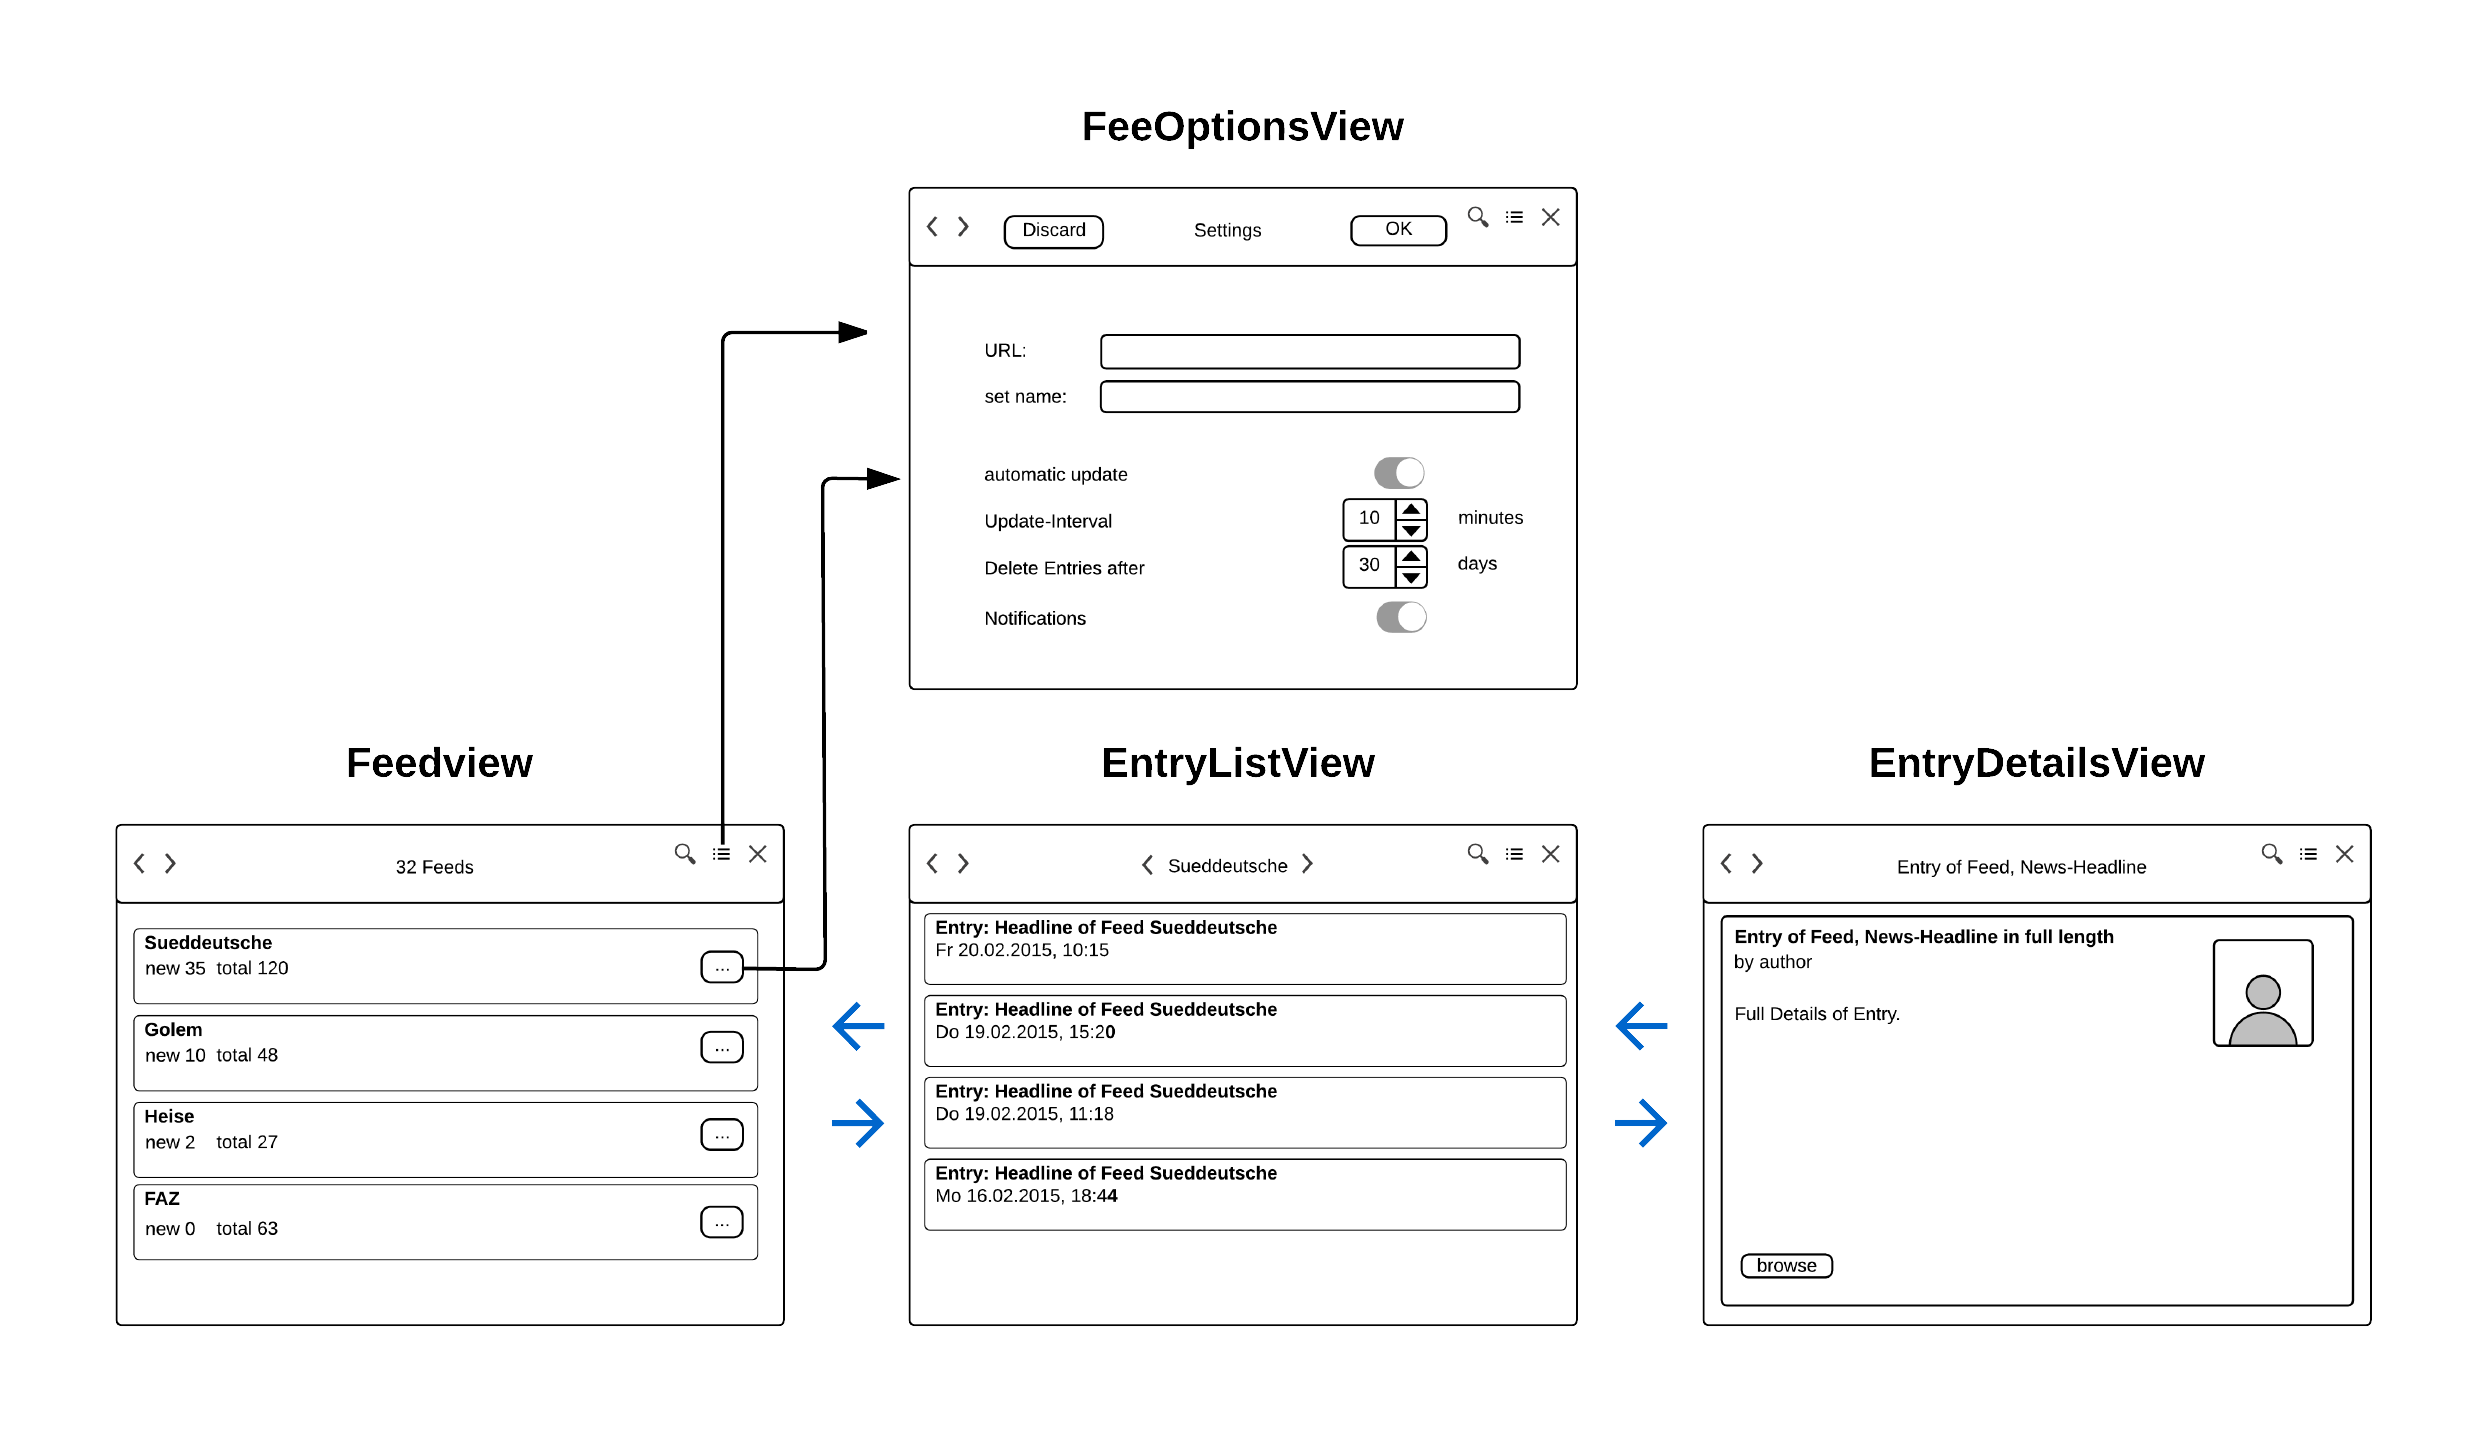
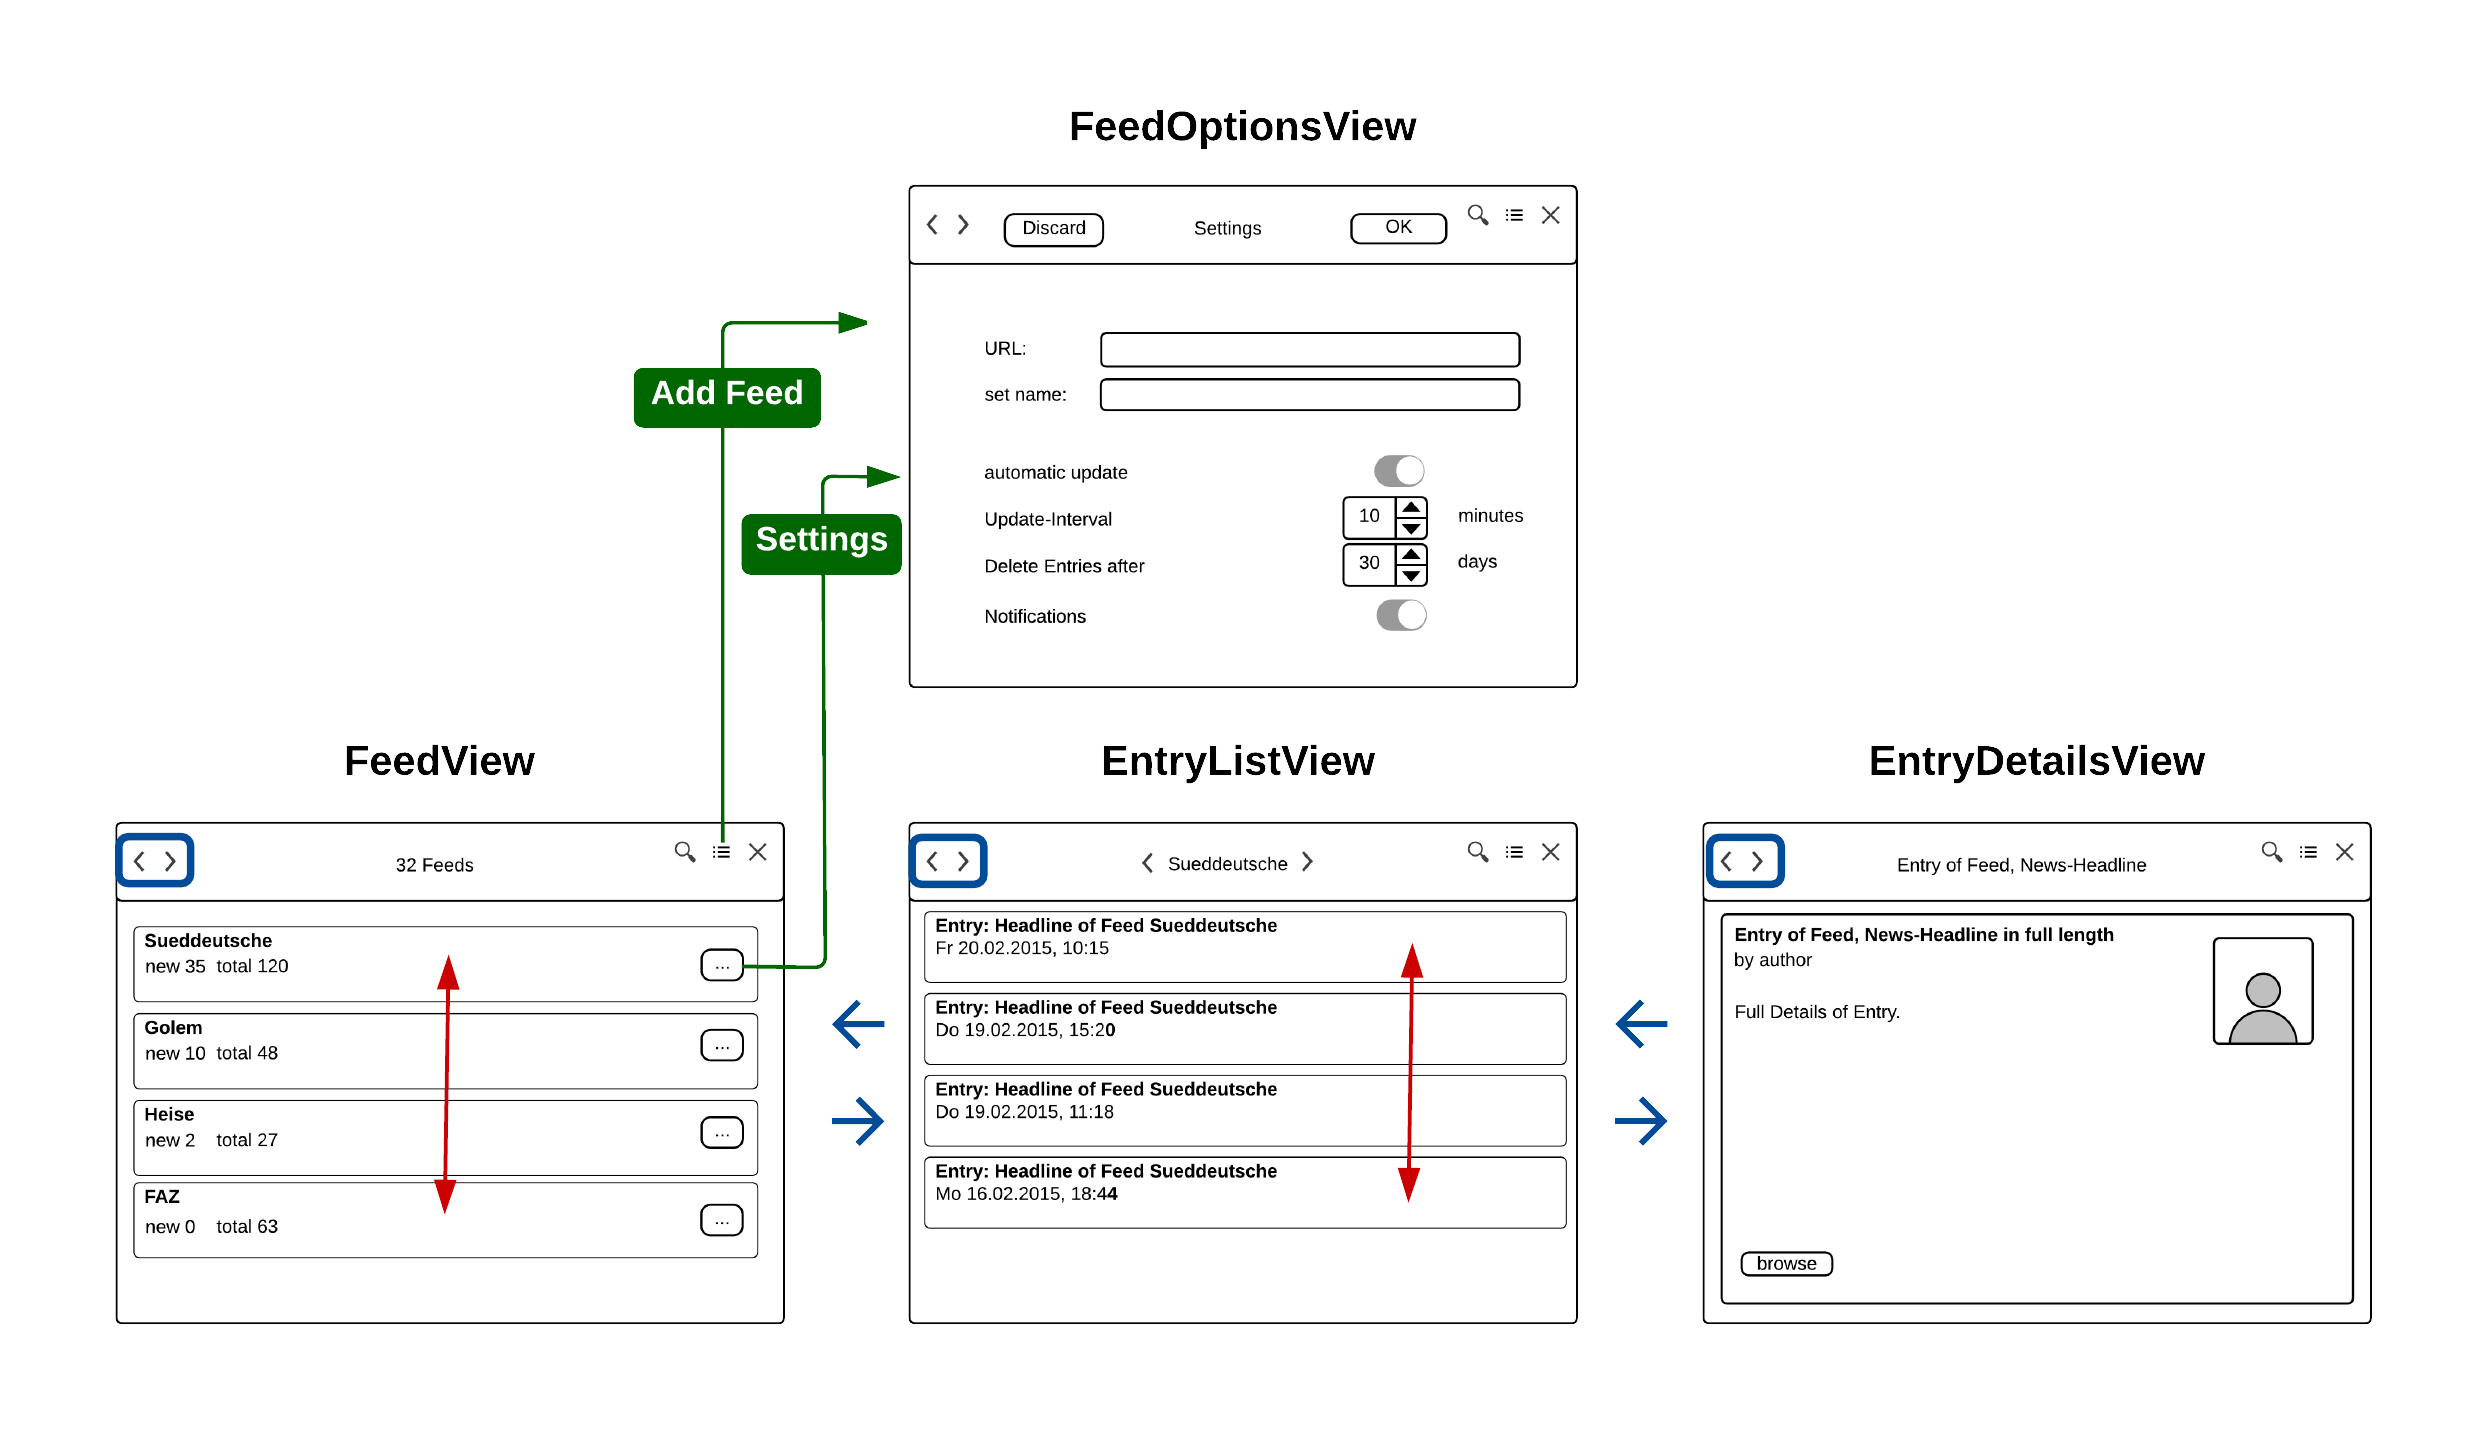
implementierung, navikonzept

diff --git a/rst/VI/index.rst b/rst/VI/index.rst
@@ -39,6 +39,18 @@ ausreichend Feedback zu den ausgeführten Aktionen. Treten beispielsweise beim
 Hinzufügen eines Feeds Fehler auf, wird der Benutzer mit einem Hinweis darauf
 aufmerksam gemacht.
 
+.. _scratchMainWindow:
+
+.. figure:: ./figs/scratchMainWindow.png
+    :alt: Mockup des *MainWindows*.
+    :width: 70%
+    :align: center
+    
+    Mockup des *MainWindows*.
+
+Das Grundkonzept der Benutzeroberfläche beruht auf dem in Abbildung :num:`scratchMainWindow` dargestellten *MainWindos*. Das *MainWindow* 
+verwaltet den Stack, der die verschiedenen Ansichten darstellt.
+
 
 Die Ansichten
 =============
@@ -50,8 +62,6 @@ erläutert.
 
 Anzeige der Feeds - *Feedview*
 ------------------------------
-
-test
 
 .. _scratchFeedView:
 
@@ -94,7 +104,7 @@ angezeigten Feeds nach unten und schafft Platz für die Suchleiste.
 
 .. figure:: ./figs/scratchSearch.png
     :alt: Mockup der Ansicht Feeds mit aktivierter Suchfunktion.
-    :width: 80%
+    :width: 70%
     :align: center
     
     Mockup der Ansicht Feeds mit aktivierter Suchfunktion.
@@ -119,7 +129,7 @@ Nachrichten gelöscht werden (Regler in Tagen) und Notifications (ja/nein).
 
 .. figure:: ./figs/scratchOptions.png
     :alt: Mockup der Ansicht Optionen.
-    :width: 80%
+    :width: 70%
     :align: center
     
     Mockup der Ansicht Settings.
@@ -139,7 +149,7 @@ Titel der Name des Feeds angezeigt. Die Ansicht ist scrollbar.
 
 .. figure:: ./figs/scratchEntries.png
     :alt: Mockup der Ansicht von Entries.
-    :width: 80%
+    :width: 70%
     :align: center
     
     Mockup der Ansicht von Entries.
@@ -159,7 +169,7 @@ innerhalb dieser Ansicht angezeigt werden.
 
 .. figure:: ./figs/scratchDetails.png
     :alt: Mockup der Ansicht Details eines Entry.
-    :width: 80%
+    :width: 70%
     :align: center
     
     Mockup der Ansicht Details eines Entry.
@@ -182,7 +192,7 @@ sind.
 
 .. figure:: ./figs/scratchMenue.png
     :alt: Mockup der Feedansicht mit geöffnetem Menue.
-    :width: 80%
+    :width: 70%
     :align: center
     
     Mockup der Feedansicht mit geöffnetem Menue.
@@ -194,7 +204,8 @@ Navigationskonzept
 Der Inhalt der einzelnen Ansichten wurde vorgestellt. Ergänzend soll nun in
 Abbildung :num:`navikonzept` die
 Navigation zwischen den einzelnen Ansichten dargestellt werden. Im Zuge
-dessen wird das Konzept der Navigation verdeutlicht.
+dessen wird das Konzept der Interaktion, d.h. auf welche Weise navigiert 
+werden kann, verdeutlicht.
 
 .. _navikonzept:
 
@@ -204,6 +215,17 @@ dessen wird das Konzept der Navigation verdeutlicht.
     :align: center
     
     Navigationskonzept von *gylfeed*.
+
+Zwischen *FeedView*, *EntryListView* und *EntryDetailsView* ist die
+Navigation mit Pfeiltasten oder alternativ über den ViewSwitcher in der 
+Header Bar möglich (blau dargestellt). Zur *FeedOptionsView* kann zentral über den Menu-Button
+in der Header Bar navigiert werden. Durch die Auswahl von *add Feed* wird
+die *FeedOptionsView* augerufen (grüner Pfeil mit Beschriftung "add Feed"). Der Aufruf der *FeedOptionsView* über
+den Settings-Button innerhalb der *FeedView* zeigt die Daten und
+Einstellungen eines Feeds an (grüner Pfeil mit Beschriftung "Settings"). 
+Innerhalb von *FeedView* und *EntryListView* ist der Wechsel zwischen den
+einzelnen Rows über die Pfeiltasten möglich (rot dargestellt).
+
 
 
 

diff --git a/rst/VII/index.rst b/rst/VII/index.rst
@@ -2,14 +2,77 @@
 Implementierung
 ***************
 
+Dieses Kapitel wird einen Eindruck von der Umsetzung der 
+Entwürfe von Architektur und Benutzeroberfläche geben. Eine detailliertere
+Analyse der verwendeten Algorithmik und Umsetzung, ist Teil der Bachelorarbeit.
 
-Die Library *feedparser*
-========================
+Grundsätzliches
+===============
 
-Updates von Feeds
-=================
+Bevor auf Details der Implementierung eingegangen wird, soll kurz erläutert
+werden, welche Programmiersprache für das Projekt gewählt wurde. Ebenso die
+Werkzeuge für die Erstellung der Benutzeroberfläche und die
+Entwicklungsumgebung.
 
-Ausführung asynchron...
+**Programmiersprache:** Das Projekt wird mit der Programmiersprache Python in
+der Version 3.3 umgesetzt. Einerseits, weil Python zahlreiche Vorteile,
+vorallem bei kurzem Entwicklungszeitraum, bietet und andererseits, weil sich 
+hiermit die Möglichkeit bietet, eine weitere Programmiersprache zu erlernen.
+Die Vorteile von Python zusammengefasst:
+
+.. aufzeahlung python vorteile
+
+:Plattformübergreifend:
+    
+:Umfangreiche Standardbibliothek:    
+
+:Relativ schnell erlernbar:
+
+:Open Source Sprache:
+
+**Tool für Erstellung der GUI:**
+
+
+
+   
+**Entwicklungssytem:**
+Die Software *gylfeed* wird unter der Linux Distribution *Fedora 21* entwickelt. Für die Entwicklung wird der
+Editor *gVim* mit entsprechenden Python--Plugins zur Validierung der Python
+PEP--Stilrichtlinien (siehe :cite:`pep`) verwendet. Des Weiteren wird die
+interaktive Python Shell *IPython* eingesetzt.
+
+**Quellcodeverwaltung:**
+Für die Quellcodeverwaltung wird das Versionsverwaltungssystem *git*
+eingesetzt. Der Quellcode selbst wird auf dem Hosting--Dienst für
+Software--Entwicklungsprojekte *GitHub* (siehe :cite:`github`) gelagert. Das
+Projekt ist auf folgender GitHub Seite zu finden:
+
+    * https://github.com/qitta/libhugin
+
+**Projektumfang:**
+Der Projektumfang beträgt ca. 3500 *lines of code*,  hinzu kommt noch
+die Onlinedokumentation. Eine Statistik zum Projekt, welche mit dem Tool
+*cloc* erstellt wurde, ist im Anhang unter :ref:`ref-cloc` zu finden.
+
+
+**Externe Bibliotheken:**
+Die Tabelle :num:`table-libs` listet alle verwendeten externen Abhängigkeiten
+für die *libhugin*--Bibliothek.
+
+
+Download mit libSoup
+====================
+
+Der Download der Daten wird mit der Bibliothek ........
+
+
+
+Einbindung der Bibliothek Universal Feedparser
+==============================================
+
+Zum Parsen der heruntergeladenen Daten wird die Bibliothek *Universal
+Feedparser* in der Version 5.1.3 verwendet. Die Bibliothek ermöglicht das
+Parsen folgender Formate: RSS 0.9X, 1.0, 2.0; Atom 1.0 und ....
 
 
 Kommunikation durch Signale
@@ -17,7 +80,9 @@ Kommunikation durch Signale
 Zum Benachrichtigen von anderen Instanzen, werden Signale eingesetzt ...
 
 
-Design der Benutzerobefläche
-============================
+Design der Benutzeroberfläche
+=============================
+
+
 
 

diff --git a/rst/glossar.rst b/rst/glossar.rst
@@ -1,0 +1,38 @@
+.. One big hack.
+
+.. only:: html or singlehtml or singletext
+
+    **Glossar**
+
+.. raw:: latex
+
+    \thispagestyle{plain}
+    \renewcommand{\thepage}{\roman{page}}
+    \setcounter{page}{9} % cough.
+    \addcontentsline{toc}{section}{Glossar}
+    {%
+        \vspace*{2em}
+        \Huge\textbf{Glossar}
+        \vspace{1em}
+    }%
+
+
+.. figtable::
+    :spec: >{\raggedleft\arraybackslash}p{0,25\linewidth} p{0,65\linewidth}
+
+    =======================  ==================================
+    Begriff                  Bedeutung
+    =======================  ==================================
+    Feed                      *Application Programming Interface*
+    Entry                     *Graphical User Interface*
+    Header Bar                *Really Simple Syndication*
+    TRALALA                   *Uniform Resource Locator*
+    GTK                       *Gnome Toolkit*
+    =======================  ==================================
+
+.. raw:: latex
+
+    \newpage
+    \renewcommand{\thepage}{\arabic{page}}
+    \pagestyle{fancy}
+    \setcounter{page}{1}

diff --git a/rst/acknowledgements.rst b/rst/acknowledgements.rst
@@ -5,8 +5,5 @@
     Danksagung
     ==========
 
-Danke an folgende Personen und Dinge: Katzen, Vögel aller Art, Teehersteller
-aller Länder, Herrn Prof. Dr. Jörg Scheidt (für die Zelle), Herrn Prof. Dr.
-Günter Köhler (für die Freiheit) und meiner Familie. 
-
-Ihr wisst schon warum.
+Mein Dank gilt folgenden Personen: Prof. Dr. Martin Thost, für die Betreuung der
+Projektarbeit. Katzen und Elchen für die mentale und fachliche Unterstützung.

diff --git a/rst/index.rst b/rst/index.rst
@@ -3,7 +3,7 @@
 .. _doc-title:
 
 #############################
-libmunin: |br| Bachelorarbeit
+gylfeed: |br| Projektarbeit
 #############################
 
 .. only:: not singlehtml

diff --git a/rst/index_tex.rst b/rst/index_tex.rst
@@ -3,7 +3,7 @@
 .. _doc-title:
 
 ############################
-libmunin: |br| Projektarbeit
+gylfeed: |br| Projektarbeit
 ############################
 
 .. raw:: latex

diff --git a/rst/toc.rst b/rst/toc.rst
@@ -2,6 +2,7 @@
     :numbered:
 
     abbrevs
+    glossar
     I/index
     II/index
     III/index
